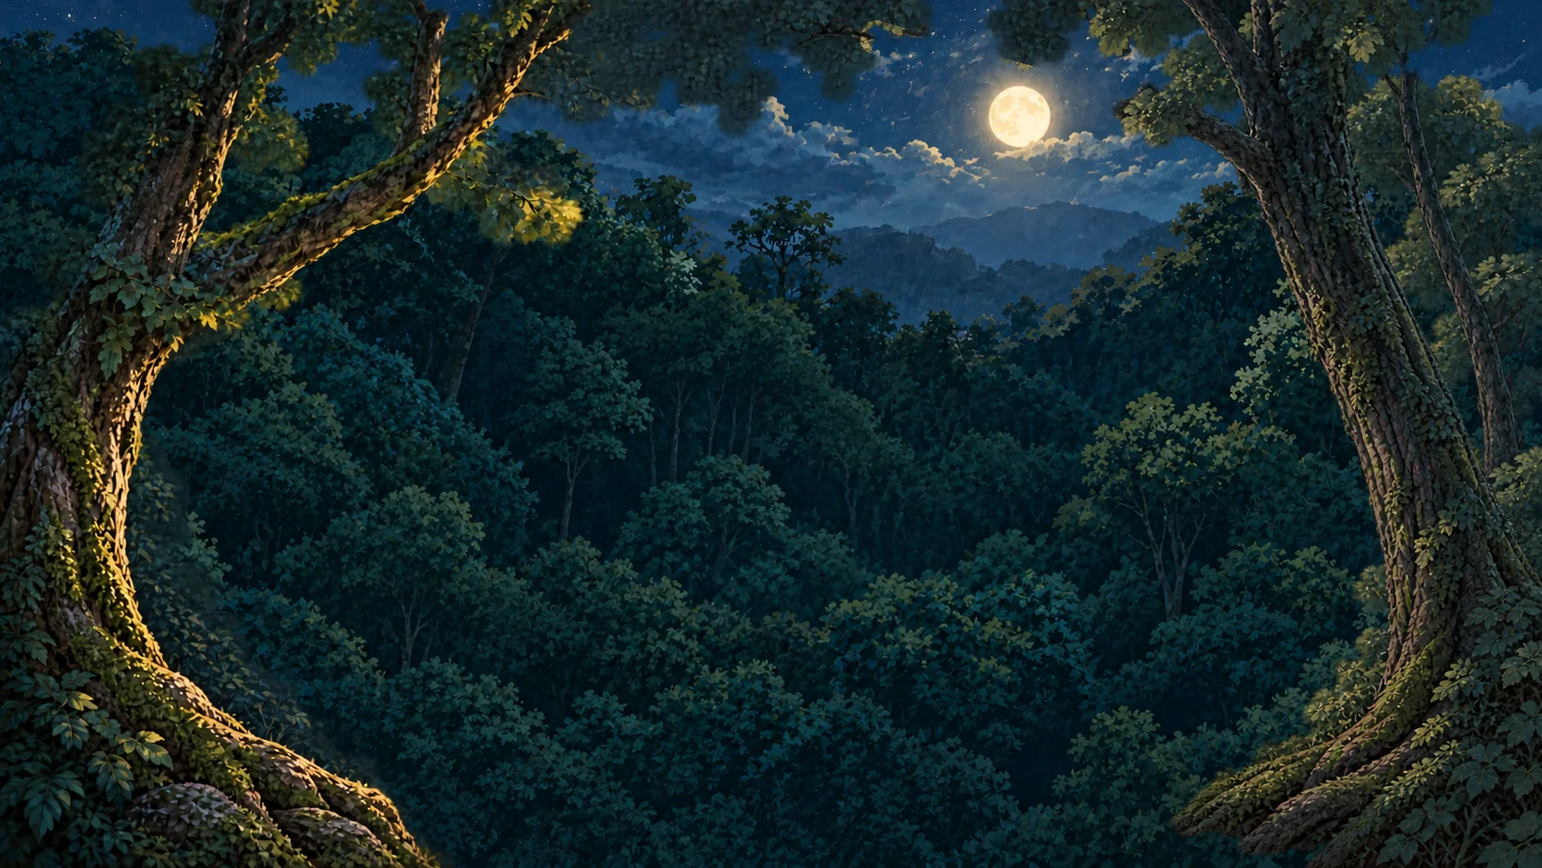
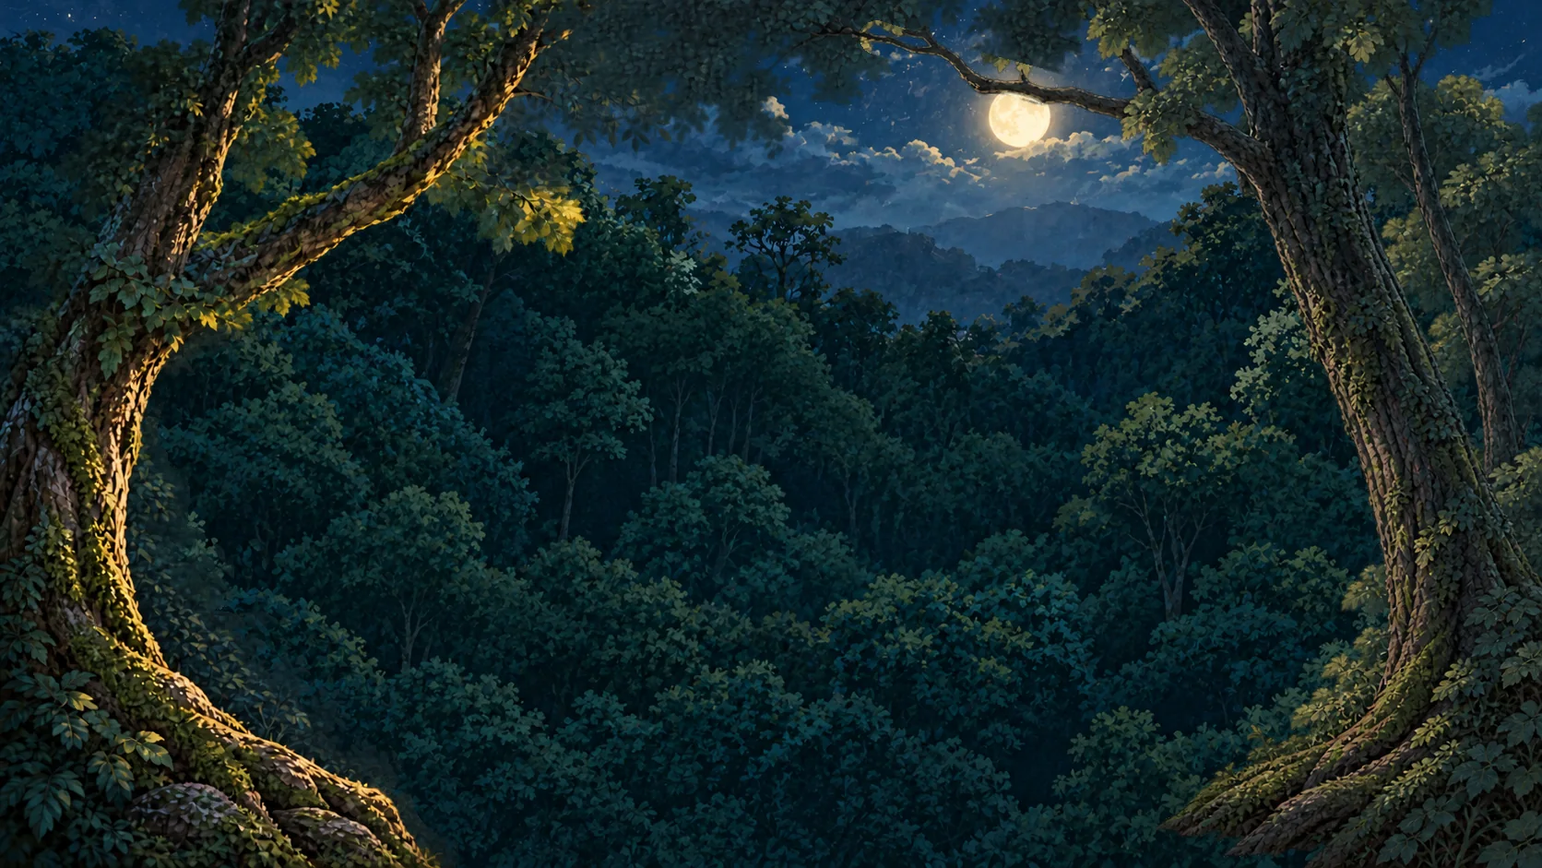
Loading screen, pointer/touch glow, 30 keyword replies from site content, rear trees kept still
Claude-Session: https://claude.ai/code/session_0178fiKuzCTDLTmbjUn3RG9Q

diff --git a/me-mori-intro.html b/me-mori-intro.html
@@ -131,6 +131,26 @@
     @media (hover: hover) and (pointer: fine) and (min-width: 761px) { .lake-ripple { filter:url(#lake-ripple); } }
     @media (prefers-reduced-motion: reduce) { .lake-ripple { filter:none; } }
     .scene.has-paper .artwork { visibility:hidden; }
+    /* Loading screen: same night-forest look; hides the scene until every layer is ready */
+    .loader { position:fixed; inset:0; z-index:50; display:grid; place-items:center; background:radial-gradient(ellipse at 50% 40%,#173a30 0%,#0b1918 60%,#06100e 100%); transition:opacity .9s ease, visibility .9s; }
+    .loader.is-done { opacity:0; visibility:hidden; }
+    .loader-inner { display:grid; justify-items:center; gap:14px; padding:0 24px; text-align:center; }
+    .loader-logo { display:flex; flex-direction:column; align-items:center; font:400 clamp(44px,8vw,64px)/.8 "Oooh Baby","Segoe Script",cursive; color:#f8ebcb; text-shadow:0 0 18px #ffd98a40; }
+    .loader-logo small { margin-top:10px; font:400 10px/1 Georgia,serif; letter-spacing:.5em; }
+    .loader-text { margin:4px 0 0; font:400 14px/1.4 "Be Vietnam Pro","Segoe UI",system-ui,sans-serif; color:#d9cfae; }
+    .loader-track { width:min(220px,60vw); height:2px; border-radius:2px; background:#f4e7c41f; overflow:hidden; }
+    .loader-track span { display:block; height:100%; width:100%; transform-origin:0 50%; transform:scaleX(.04); background:linear-gradient(90deg,#d9c27a,#fff3c8); box-shadow:0 0 8px #ffd98a; transition:transform .4s ease; }
+    .loader-flies { position:relative; width:160px; height:40px; }
+    .loader-flies i { position:absolute; width:5px; height:5px; border-radius:50%; background:#ffe8a4; box-shadow:0 0 10px 3px #ffd97d88; animation:loader-fly 3.2s ease-in-out infinite; }
+    .loader-flies i:nth-child(1) { left:10%; top:60%; animation-delay:-.4s; } .loader-flies i:nth-child(2) { left:32%; top:20%; animation-delay:-1.2s; }
+    .loader-flies i:nth-child(3) { left:52%; top:70%; animation-delay:-2s; } .loader-flies i:nth-child(4) { left:72%; top:30%; animation-delay:-.8s; } .loader-flies i:nth-child(5) { left:88%; top:65%; animation-delay:-2.6s; }
+    @keyframes loader-fly { 0%,100% { transform:translate(0,0); opacity:.25; } 50% { transform:translate(6px,-9px); opacity:1; } }
+    /* Glow that follows the mouse; on phones a small glow follows the finger while touching */
+    .pointer-glow { position:absolute; z-index:5; left:0; top:0; width:220px; height:220px; margin:-110px 0 0 -110px; border-radius:50%; pointer-events:none; opacity:0; mix-blend-mode:screen;
+      background:radial-gradient(circle,#ffe8a640 0%,#ffe2a01f 35%,#ffe2a000 70%); transition:opacity .35s ease; will-change:transform; }
+    .pointer-glow.is-on { opacity:1; }
+    .pointer-glow.is-touch { width:120px; height:120px; margin:-60px 0 0 -60px; background:radial-gradient(circle,#fff0c066 0%,#ffe2a02e 38%,#ffe2a000 70%); }
+    @media (prefers-reduced-motion: reduce) { .loader-flies i { animation:none; } }
     /* tiny inline preview shows instantly while the still image downloads */
[1 lines of base64/hex data omitted]
     .beetle-head { opacity:0; transition:opacity .6s ease; }
@@ -268,10 +288,19 @@
       <feDisplacementMap in="SourceGraphic" in2="n" scale="5" xChannelSelector="R" yChannelSelector="G"/>
     </filter>
   </svg>
+  <div class="loader" role="status" aria-live="polite">
+    <div class="loader-inner">
+      <div class="loader-logo">Me.Mori<small>CLASS</small></div>
+      <div class="loader-flies" aria-hidden="true"><i></i><i></i><i></i><i></i><i></i></div>
+      <p class="loader-text">Bọ đang thắp đèn khu rừng…</p>
+      <div class="loader-track" aria-hidden="true"><span></span></div>
+    </div>
+  </div>
   <main class="scene" aria-label="Me.Mori Class — cuộc trò chuyện bên rừng">
     <img class="artwork" src="assets/paper/forest2/composite.webp" alt="Bọ cánh cứng nhỏ bên hồ trong khu rừng đêm, dưới ánh trăng." fetchpriority="high">
     <div class="forest-paper" aria-hidden="true"></div>
     <div class="load-bar" aria-hidden="true"></div>
+    <div class="pointer-glow" aria-hidden="true"></div>
     <div class="shade" aria-hidden="true"></div>
     <div class="cursor-aura" aria-hidden="true"></div>
     <div class="wind-layer" aria-hidden="true"></div>
@@ -312,6 +341,7 @@
           </div>
   </main>
   <script src="assets/paper/paper-scene.js"></script>
+  <script src="assets/bo-replies.js"></script>
   <script>
     (() => {
       const scene = document.querySelector('.scene');
@@ -513,12 +543,13 @@
       const conn = navigator.connection || {};
       const lightMode = conn.saveData || /(^|-)2g$/.test(conn.effectiveType || '');
       const loadBar = document.querySelector('.load-bar');
+      const loader = document.querySelector('.loader');
+      const loaderBar = loader.querySelector('.loader-track span');
+      let paperReady = false, paperFailed = false;
       const paper = window.PaperScene && !lightMode ? PaperScene.create(document.querySelector('.forest-paper'), {
         width: 1672, height: 941,
         layers: [
           { src:'assets/paper/forest3/back.webp', x:0, y:0, w:1672, h:941, depth:0 },
-          { src:'assets/paper/forest3/01b-rear-tree-left-twigs.webp', x:0, y:0, w:734, h:941, ox:260, oy:420, depth:0.25, sway:{ amp:0.35, period:6.8, bend:0.5, gust:0.9 } },
-          { src:'assets/paper/forest3/01c-rear-tree-right-twigs.webp', x:553, y:0, w:1119, h:941, ox:1380, oy:420, depth:0.25, sway:{ amp:0.35, period:7.4, bend:0.5, gust:0.9 } },
           { src:'assets/paper/forest3/front-trunks.webp', x:0, y:0, w:1672, h:941, depth:0.25 },
           { src:'assets/paper/forest3/02-trees-left-twigs.webp', x:94, y:0, w:544, h:941, ox:120, oy:520, depth:0.25, sway:{ amp:0.45, period:6.2, bend:0.5, gust:1.1 } },
           { src:'assets/paper/forest3/03-trees-right-twigs.webp', x:764, y:0, w:810, h:941, ox:1560, oy:520, depth:0.25, sway:{ amp:0.45, period:6.6, bend:0.5, gust:1.1 } },
@@ -530,18 +561,63 @@
           { src:'assets/paper/forest3/11-foreground-right.webp', x:1217, y:728, w:455, h:213, ox:1500, oy:990, depth:0.9, sway:{ amp:0.5, period:6.4, bend:0.7 } }
         ],
         preload: ['assets/paper/forest3/06-beetle-head.webp'],
-        onProgress: p => { loadBar.style.transform = `scaleX(${p})`; },
+        onProgress: p => { loadBar.style.transform = `scaleX(${p})`; loaderBar.style.transform = `scaleX(${Math.max(.04, p)})`; },
         glows: [[317,297],[337,541],[342,617],[927,602],[831,662],[1255,393],[1417,589],[1527,278],[1574,757],[1473,815]]
       }) : null;
       if (paper) {
-        paper.ready.then(() => paper.reveal()).then(() => {
-          scene.classList.add('has-paper');
-          loadBar.classList.add('is-done');
-        }).catch(() => loadBar.classList.add('is-done')); // a failed layer: keep the still image
+        paper.ready.then(() => { paperReady = true; }).catch(() => { paperFailed = true; });
         paper.follow(document.querySelector('.beetle-head'), 'bank-beetle'); // head moves with its body
         PaperScene.linkTransitions(paper);
       } else {
         loadBar.remove();
+      }
+
+      // ---- Start: wait for fonts, the still image and every paper layer (max 12 s), then lift the loading screen ----
+      const stillReady = new Promise(r => (artwork.complete && artwork.naturalWidth ? r() : (artwork.addEventListener('load', r, { once: true }), artwork.addEventListener('error', r, { once: true }))));
+      const fontsReady = document.fonts ? document.fonts.ready.catch(() => {}) : Promise.resolve();
+      const layersReady = paper ? paper.ready.catch(() => {}) : Promise.resolve();
+      const timeout = new Promise(r => setTimeout(r, 12000));
+      const minShow = new Promise(r => setTimeout(r, 1200));   // never just flash the loading screen
+      Promise.all([minShow, Promise.race([Promise.all([stillReady, fontsReady, layersReady]), timeout])]).then(() => {
+        placeHotspots();
+        loader.classList.add('is-done');
+        loadBar.classList.add('is-done');
+        if (paper && paperReady) {
+          paper.reveal(0);
+          scene.classList.add('has-paper');
+          paper.enter({ duration: 1000, stagger: 70 });
+        } else if (paper && !paperFailed) {
+          // slow network: show the still now, swap in the moving layers when they arrive
+          loadBar.classList.remove('is-done');
+          paper.ready.then(() => paper.reveal()).then(() => { scene.classList.add('has-paper'); loadBar.classList.add('is-done'); }).catch(() => loadBar.classList.add('is-done'));
+        }
+        setTimeout(() => loader.remove(), 1000);
+      });
+
+      // ---- Pointer glow: follows the mouse; on touch screens a small glow follows the finger ----
+      const glow = document.querySelector('.pointer-glow');
+      if (!reduceMotion.matches) {
+        const moveGlow = event => {
+          const box = scene.getBoundingClientRect();
+          glow.style.transform = `translate(${event.clientX - box.left}px,${event.clientY - box.top}px)`;
+        };
+        scene.addEventListener('pointermove', event => {
+          if (event.pointerType === 'touch' && !glow.classList.contains('is-touch')) return;
+          moveGlow(event);
+          glow.classList.add('is-on');
+        }, { passive: true });
+        scene.addEventListener('pointerdown', event => {
+          glow.classList.toggle('is-touch', event.pointerType === 'touch');
+          moveGlow(event);
+          glow.classList.add('is-on');
+        }, { passive: true });
+        const touchEnd = event => { if (event.pointerType === 'touch') glow.classList.remove('is-on'); };
+        scene.addEventListener('pointerup', touchEnd, { passive: true });
+        scene.addEventListener('pointercancel', touchEnd, { passive: true });
+        scene.addEventListener('pointerleave', event => { if (event.pointerType !== 'touch') glow.classList.remove('is-on'); });
+        // dragging a finger can cancel pointer events on phones, so touch events drive the glow there
+        scene.addEventListener('touchmove', event => { const t = event.touches[0]; if (!t) return; glow.classList.add('is-touch', 'is-on'); moveGlow(t); }, { passive: true });
+        scene.addEventListener('touchend', () => glow.classList.remove('is-on'), { passive: true });
       }
 
       if (artwork.complete) placeHotspots();
@@ -796,27 +872,29 @@
       form.addEventListener('focusout', () => window.setTimeout(closeIdleChat, 150));
       field.addEventListener('keydown', event => { if (event.key === 'Escape') field.blur(); });
 
+      // Keyword answers (assets/bo-replies.js). Accents are ignored, longer matching phrases win.
+      const plain = text => text.toLocaleLowerCase('vi').normalize('NFD').replace(/[\u0300-\u036f]/g, '').replace(/đ/g, 'd').replace(/[^a-z0-9 ]+/g, ' ').replace(/\s+/g, ' ').trim();
+      const replyBook = (typeof BO_REPLIES !== 'undefined' ? BO_REPLIES : []).map(entry => ({ ...entry, plainKeys: entry.keys.map(plain) }));
+      function findReply(question) {
+        const q = ` ${plain(question)} `;
+        let best = null, bestScore = 0;
+        for (const entry of replyBook) {
+          let score = 0;
+          for (const key of entry.plainKeys) if (key && q.includes(` ${key} `) || (key.length > 4 && q.includes(key))) score += key.length;
+          if (score > bestScore) { best = entry; bestScore = score; }
+        }
+        if (!best) return { reply: (typeof BO_FALLBACK !== 'undefined' && BO_FALLBACK) || 'Bọ chưa hiểu lắm, bạn hỏi lại giúp mình nhé.', target: null };
+        return { reply: best.reply, target: best.link && best.link.href, label: best.link && best.link.label };
+      }
+
       form.addEventListener('submit', event => {
         event.preventDefault();
         const question = field.value.trim();
         openChat();
         if (!question) { botSay('Bạn hãy nhập câu hỏi vào khung rồi gửi nhé.'); field.focus(); return; }
-        const normalized = question.toLocaleLowerCase('vi');
-        let reply = 'Màn trò chuyện này chưa được kết nối với trợ lý Me.Mori. Bạn có thể xem thông tin lớp học và gửi câu hỏi qua trang chính.';
-        let target = 'index.html#courses';
-        let label = 'Xem thông tin lớp học';
-        if (/đăng ký|dang ky|liên hệ|lien he/.test(normalized)) {
-          reply = 'Bạn có thể xem cách đăng ký và gửi lời nhắn cho Me.Mori tại trang chính.';
-          target = 'index.html#contact'; label = 'Đến mục đăng ký';
-        } else if (/workshop|tác phẩm|tac pham|video|bài học|bai hoc/.test(normalized)) {
-          reply = 'Trang chính có thông tin workshop, nội dung học và các tác phẩm của Me.Mori.';
-          target = 'index.html#workshops'; label = 'Xem workshop';
-        } else if (/lớp|lop|học|hoc|f2|khóa|khoa/.test(normalized)) {
-          reply = 'Me.Mori Class kết hợp điện ảnh, storytelling và kỹ năng sản xuất nội dung. Mở trang lớp để xem thông tin hiện có.';
-          target = 'index.html#courses'; label = 'Xem lớp học';
-        }
-        const link = document.createElement('a');
-        link.href = target; link.textContent = label;
+        const { reply, target, label } = findReply(question);
+        let link = null;
+        if (target) { link = document.createElement('a'); link.href = target; link.textContent = label; }
         userAsked = true;
         addMessage('user').textContent = question;
         field.value = '';

diff --git a/assets/bo-replies.js b/assets/bo-replies.js
@@ -1,0 +1,33 @@
+const BO_REPLIES = [
+  { id: 'course_short_video', keys: ['storytelling cho video ngắn','video ngắn','video ngan','cấu trúc câu chuyện','cau truc cau chuyen','mở đầu cuốn hút','thông điệp'], reply: 'Workshop "Storytelling cho video ngắn" dạy bạn xây cấu trúc câu chuyện, mở đầu cuốn hút và thông điệp dễ nhớ.', link: { href: 'index.html#courses', label: 'Xem workshop' } },
+  { id: 'course_cinematic', keys: ['tư duy hình ảnh cinematic','tu duy hinh anh','cinematic','bố cục','bo cuc','ánh sáng','anh sang','chuyển động máy'], reply: 'Workshop "Tư duy hình ảnh cinematic" rèn bố cục, ánh sáng, chuyển động máy và nhịp cảm xúc cho khung hình của bạn.', link: { href: 'index.html#courses', label: 'Xem workshop' } },
+  { id: 'course_editing', keys: ['quay dựng cho creator','quay dựng','quay dung','dựng phim','dung phim','edit','footage','hậu kỳ','hau ky'], reply: 'Workshop "Quay dựng cho creator" giúp bạn biến footage thô thành sản phẩm hoàn chỉnh, rõ nhịp và rõ ý.', link: { href: 'index.html#courses', label: 'Xem workshop' } },
+  { id: 'register', keys: ['đăng ký','dang ky','dang ki','đăng kí','ghi danh','tham gia','muốn học','muon hoc'], reply: 'Bạn chọn workshop hợp với mục tiêu rồi bấm "Liên hệ đăng ký", hoặc gửi mail tới hello@memori.class nhé.', link: { href: 'index.html#contact', label: 'Đăng ký' } },
+  { id: 'contact', keys: ['liên hệ','lien he','email','mail','instagram','facebook','inbox','hỏi thêm','hoi them'], reply: 'Bạn có thể viết cho ME.MORI qua hello@memori.class, hoặc tìm trang Instagram và Facebook ở phần chân trang nhé.', link: { href: 'index.html#contact', label: 'Liên hệ' } },
+  { id: 'price', keys: ['học phí','hoc phi','giá','gia','bao nhiêu tiền','bao nhieu tien','chi phí','chi phi','phí','price'], reply: 'Bọ chưa thấy học phí trên trang này. Bạn gửi mail tới hello@memori.class để được báo chính xác nhé.', link: { href: 'index.html#contact', label: 'Liên hệ' } },
+  { id: 'schedule', keys: ['lịch học','lich hoc','khai giảng','khai giang','khi nào','khi nao','giờ học','gio hoc','ngày học','lịch'], reply: 'Trang chưa đăng lịch khai giảng cụ thể. Bạn nhắn hello@memori.class để hỏi lịch workshop mới nhất nhé.', link: { href: 'index.html#contact', label: 'Hỏi lịch' } },
+  { id: 'duration', keys: ['bao lâu','bao lau','thời lượng','thoi luong','mấy buổi','may buoi','kéo dài','keo dai','bao nhiêu buổi'], reply: 'Các lớp được thiết kế ngắn gọn, mỗi buổi tập trung vào một kỹ năng rõ ràng. Số buổi cụ thể bạn hỏi qua hello@memori.class nhé.', link: { href: 'index.html#method', label: 'Xem phương pháp' } },
+  { id: 'location', keys: ['địa chỉ','dia chi','ở đâu','o dau','học online','hoc online','offline','trực tiếp','truc tiep','địa điểm','dia diem'], reply: 'Bọ chưa có thông tin địa điểm hay hình thức học (online/offline) trên trang. Bạn hỏi giúp qua hello@memori.class nhé.', link: { href: 'index.html#contact', label: 'Liên hệ' } },
+  { id: 'workshops', keys: ['workshop','khóa học','khoa hoc','lớp học','lop hoc','có lớp nào','co lop nao','danh sách lớp'], reply: 'Hiện có 3 workshop: Storytelling cho video ngắn, Tư duy hình ảnh cinematic và Quay dựng cho creator. Lớp nào cũng ngắn gọn, áp dụng được ngay.', link: { href: 'index.html#courses', label: 'Xem workshop' } },
+  { id: 'what_learn', keys: ['học gì','hoc gi','được học','duoc hoc','nội dung','noi dung','dạy gì','day gi','kỹ năng','ky nang'], reply: 'Bạn học tư duy cinematic, cách kể chuyện, quay dựng và tạo cảm xúc bằng hình ảnh, qua bài tập thật có phản hồi.', link: { href: 'index.html#features', label: 'Xem nội dung' } },
+  { id: 'method', keys: ['phương pháp','phuong phap','học như thế nào','cách học','cach hoc','quy trình','quy trinh','các bước','feedback'], reply: 'Mỗi buổi tập trung một kỹ năng, có ví dụ, thực hành theo brief và feedback. Quy trình: đăng ký, thực hành tại lớp, hoàn thiện sản phẩm.', link: { href: 'index.html#method', label: 'Xem phương pháp' } },
+  { id: 'beginner', keys: ['người mới','nguoi moi','mới bắt đầu','moi bat dau','chưa biết','chua biet','phù hợp','phu hop','dành cho ai','danh cho ai','beginner'], reply: 'Lớp dành cho creator muốn có tư duy cinematic. Khi đăng ký, bạn chọn chủ đề hợp với mục tiêu và kinh nghiệm hiện tại của mình.', link: { href: 'index.html#method', label: 'Xem phương pháp' } },
+  { id: 'practice', keys: ['thực hành','thuc hanh','bài tập','bai tap','brief','làm bài','lam bai'], reply: 'Bạn làm bài tập tại lớp, quay dựng theo brief và nhận phản hồi để cải thiện từng phiên bản sản phẩm.', link: { href: 'index.html#features', label: 'Thực hành thật' } },
+  { id: 'works', keys: ['tác phẩm','tac pham','dự án học viên','du an hoc vien','sản phẩm học viên','video mẫu','video mau','xem thử','demo'], reply: 'Mục "Dự án học viên" nằm ở cộng đồng ME.MORI. Bạn cũng có thể xem video giới thiệu ở đầu trang nhé.', link: { href: 'index.html#workshops', label: 'Về đầu trang' } },
+  { id: 'community', keys: ['cộng đồng','cong dong','kết nối','ket noi','bạn bè','ban be','feedback nhóm','group'], reply: 'ME.MORI có cộng đồng creator cùng yêu video, điện ảnh và kể chuyện bằng hình ảnh, có cả feedback nhóm.', link: { href: 'index.html#features', label: 'Xem cộng đồng' } },
+  { id: 'storytelling', keys: ['kể chuyện','ke chuyen','storytelling','câu chuyện','cau chuyen','nghệ thuật kể chuyện','story'], reply: 'ME.MORI giúp bạn biết mình muốn kể gì, vì sao câu chuyện đáng xem và nên thể hiện nó thế nào.', link: { href: 'index.html#workshops', label: 'Xem giới thiệu' } },
+  { id: 'teachers', keys: ['giáo viên','giao vien','giảng viên','giang vien','thầy','cô','mentor','ai dạy','ai day'], reply: 'Bọ chưa thấy thông tin giảng viên trên trang. Bạn hỏi qua hello@memori.class để biết ai đồng hành cùng lớp nhé.', link: { href: 'index.html#contact', label: 'Liên hệ' } },
+  { id: 'equipment', keys: ['thiết bị','thiet bi','máy quay','may quay','điện thoại','dien thoai','máy ảnh','may anh','chuẩn bị','chuan bi'], reply: 'Trang chưa nêu yêu cầu thiết bị. Bạn cứ hỏi hello@memori.class xem cần chuẩn bị gì cho workshop mình chọn nhé.', link: { href: 'index.html#contact', label: 'Liên hệ' } },
+  { id: 'certificate', keys: ['chứng chỉ','chung chi','chứng nhận','chung nhan','bằng cấp','bang cap','certificate'], reply: 'Trang chưa nhắc tới chứng chỉ. Bạn hỏi thêm qua hello@memori.class để chắc chắn nhé.', link: { href: 'index.html#contact', label: 'Liên hệ' } },
+  { id: 'refund', keys: ['hoàn tiền','hoan tien','hoàn phí','hoan phi','hủy lớp','huy lop','bảo lưu','bao luu','refund'], reply: 'Bọ chưa có chính sách hoàn tiền hay bảo lưu trên trang. Bạn hỏi trực tiếp qua hello@memori.class nhé.', link: { href: 'index.html#contact', label: 'Liên hệ' } },
+  { id: 'age_size', keys: ['độ tuổi','do tuoi','bao nhiêu tuổi','tuổi','tuoi','sĩ số','si so','mấy người','may nguoi','lớp bao nhiêu'], reply: 'Bọ chưa có thông tin về độ tuổi hay sĩ số lớp. Bạn nhắn hello@memori.class để được giải đáp nhé.', link: { href: 'index.html#contact', label: 'Liên hệ' } },
+  { id: 'ai_tools', keys: ['ai','phần mềm','phan mem','premiere','capcut','công cụ','cong cu','tools','software'], reply: 'Trang chưa nhắc tới AI hay phần mềm cụ thể. Workshop tập trung vào tư duy hình ảnh và kỹ năng quay dựng; bạn hỏi thêm qua hello@memori.class nhé.', link: { href: 'index.html#contact', label: 'Liên hệ' } },
+  { id: 'who_bo', keys: ['bọ là ai','bo la ai','bạn là ai','ban la ai','con bọ','con bo','tên gì','ten gi','chatbot'], reply: 'Mình là Bọ, chú bọ nhỏ trên trang ME.MORI Class. Bọ chuyên chỉ đường và trả lời các câu hỏi về lớp học.' },
+  { id: 'what_is', keys: ['me.mori','memori','mori class','giới thiệu','gioi thieu','là gì','la gi','về lớp','ve lop'], reply: 'ME.MORI Class là không gian học dành cho creator, kết hợp điện ảnh, storytelling và kỹ năng làm nội dung.', link: { href: 'index.html#workshops', label: 'Giới thiệu' } },
+  { id: 'fun', keys: ['kể chuyện cười','ke chuyen cuoi','đùa','dua','vui','hài','hai','joke','thích gì','thich gi'], reply: 'Bọ nhỏ xíu nhưng mê điện ảnh lắm, chỗ nào có ánh sáng đẹp là Bọ bay tới liền. Bạn muốn Bọ chỉ workshop nào không?', link: { href: 'index.html#courses', label: 'Xem workshop' } },
+  { id: 'thanks', keys: ['cảm ơn','cam on','thanks','thank','cám ơn','biết ơn'], reply: 'Không có chi nha bạn! Cần gì cứ hỏi Bọ tiếp nhé.' },
+  { id: 'goodbye', keys: ['tạm biệt','tam biet','bye','hẹn gặp lại','hen gap lai','đi đây','pp'], reply: 'Tạm biệt bạn nhé, hẹn gặp lại ở ME.MORI Class. Bọ vẫy cánh chào!' },
+  { id: 'help', keys: ['giúp','giup','hỏi gì','hoi gi','trợ giúp','tro giup','help','hướng dẫn','huong dan'], reply: 'Bạn có thể hỏi Bọ về các workshop, nội dung học, cách đăng ký hoặc liên hệ nhé.', link: { href: 'index.html#courses', label: 'Xem workshop' } },
+  { id: 'greeting', keys: ['xin chào','chào','xin chao','hello','hi','alo','chao bo','hey'], reply: 'Chào bạn, Bọ đây! Bạn muốn tìm hiểu workshop nào của ME.MORI Class?' }
+];
+const BO_FALLBACK = 'Bọ chưa hiểu ý bạn lắm. Thử hỏi Bọ nhé: "Có những workshop nào?", "Học được gì?" hoặc "Đăng ký thế nào?"';

diff --git a/tools/paper-cut/build_forest.py b/tools/paper-cut/build_forest.py
@@ -46,12 +46,10 @@ l08 = load('08-overhead-leaves')
 m = np.ones((H, W), np.float32); m[:27, 1148:] = 0; m = cv2.GaussianBlur(m, (0, 0), 2)
 l08[..., 3] = (soften(l08[..., 3]).astype(np.float32) * m).astype(np.uint8)
 l01c = load('01c-rear-tree-right'); l01c[..., 3] = soften(l01c[..., 3])
-t01b, w01b = split(load('01b-rear-tree-left'))
-t01c, w01c = split(l01c)
 t02, w02 = split(load('02-trees-left'))
 t03, w03 = split(load('03-trees-right'))
-save(over(load('01-background'), t01b, t01c), 'back', opaque=True)
-save(w01b, '01b-rear-tree-left-twigs'); save(w01c, '01c-rear-tree-right-twigs')
+# rear trees are far away: keep them whole and still (their split-off twigs looked like loose fragments)
+save(over(load('01-background'), load('01b-rear-tree-left'), l01c), 'back', opaque=True)
 save(over(t02, t03), 'front-trunks')
 save(w02, '02-trees-left-twigs'); save(w03, '03-trees-right-twigs')
 save(load('04-lake'), 'lake')
